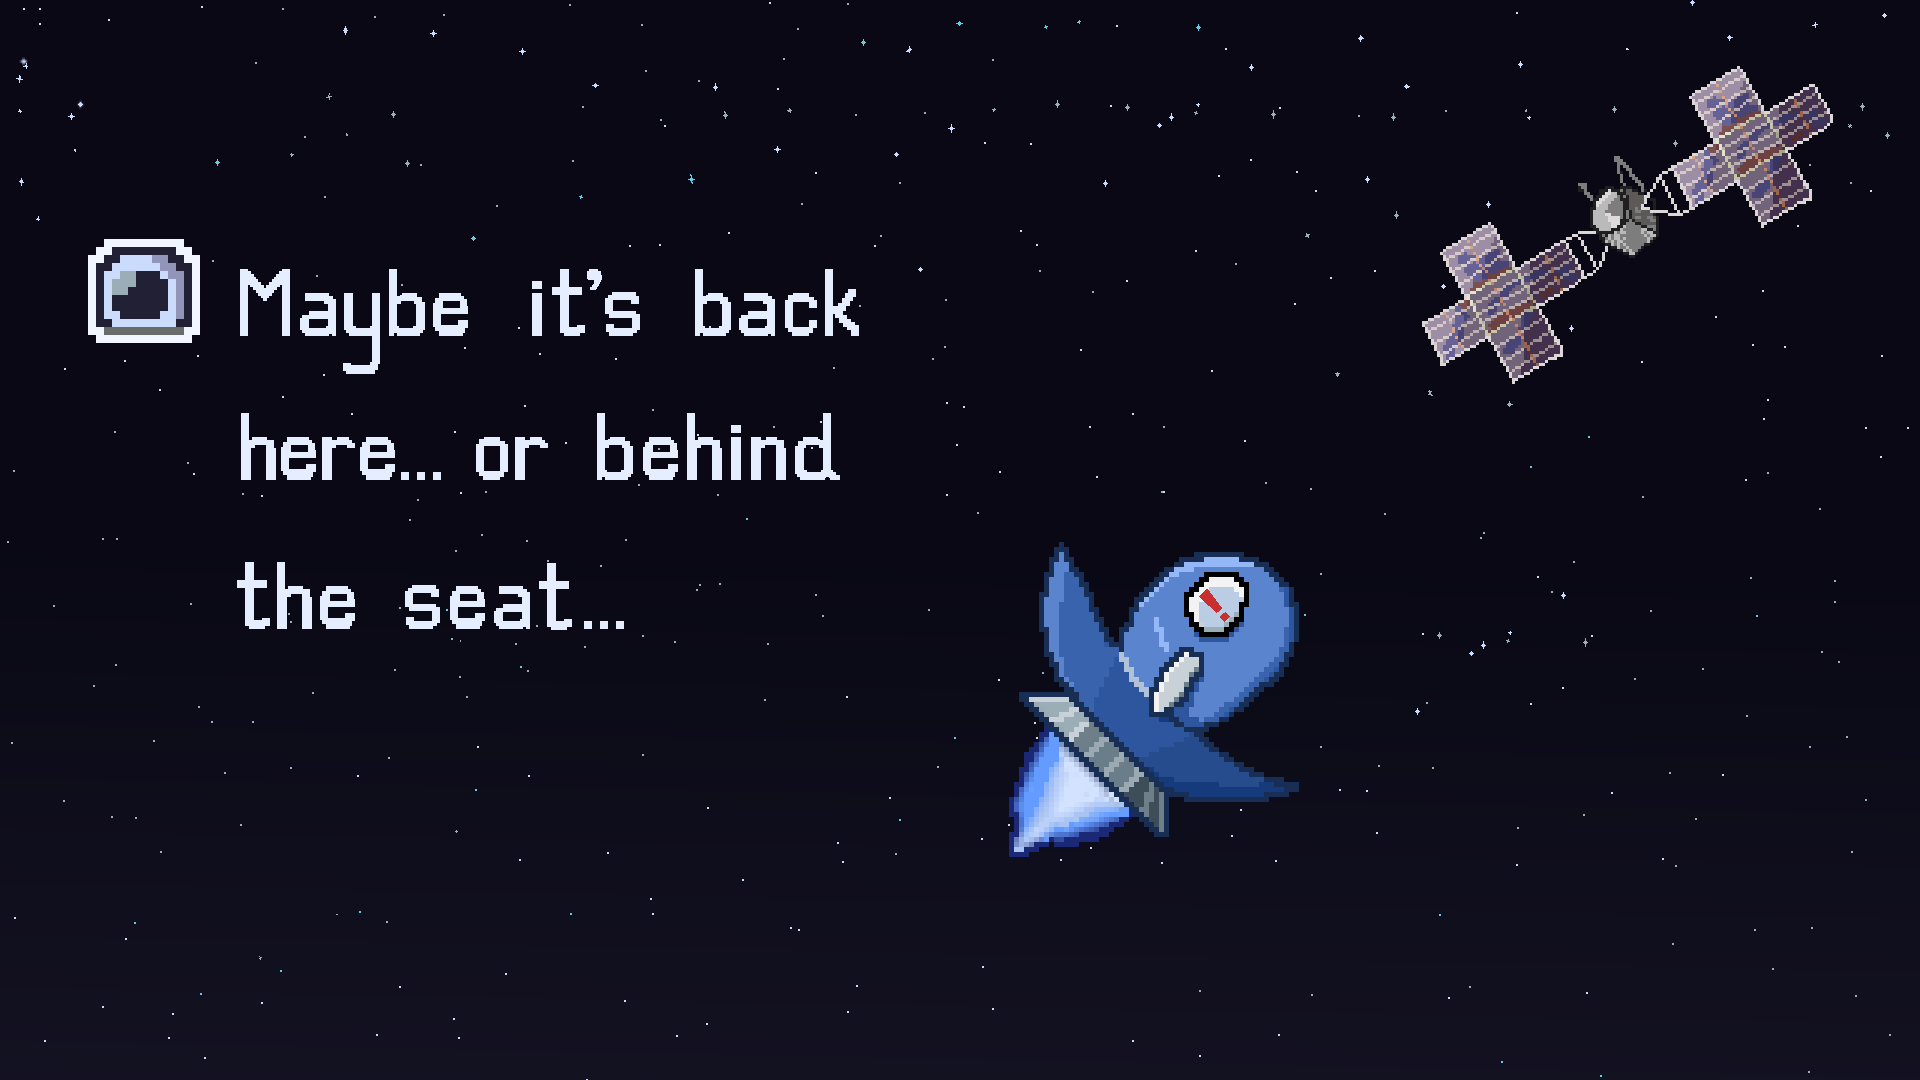
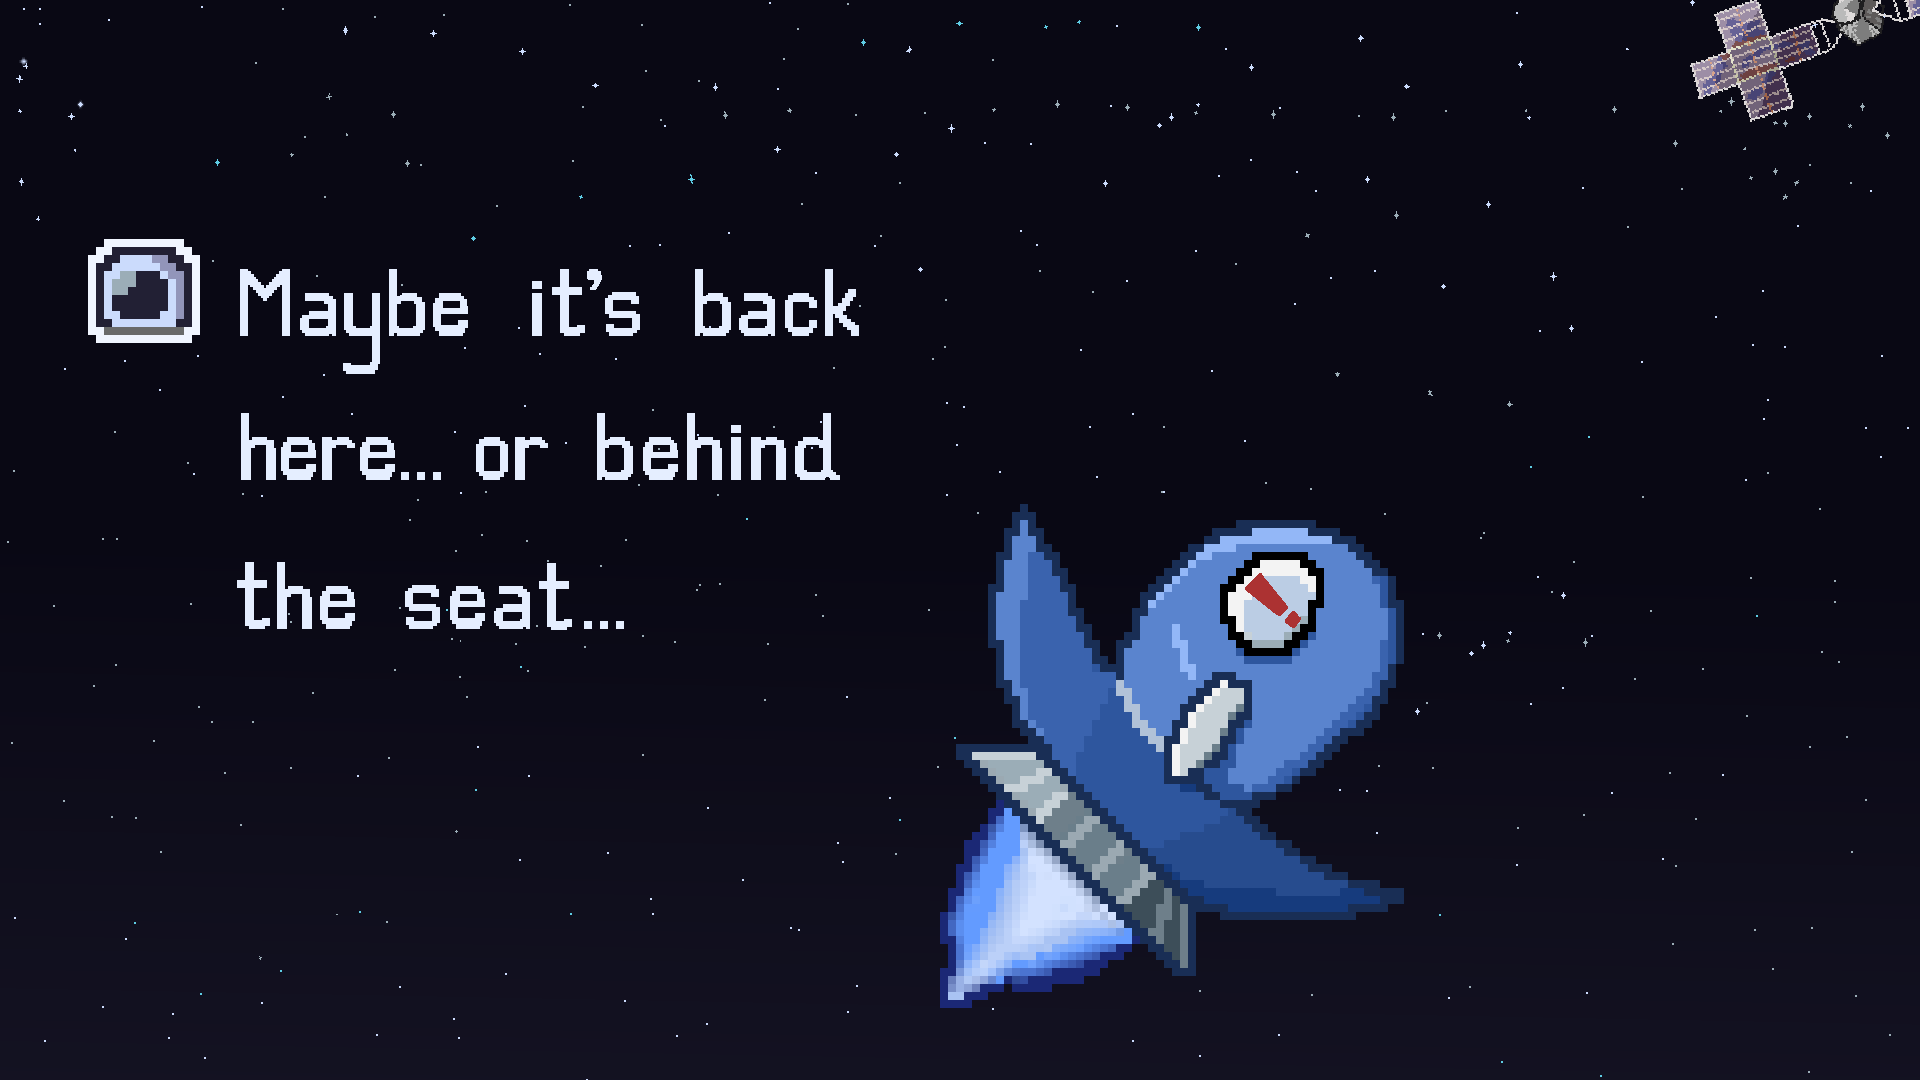
updated intro 3, 4, & added 5. updated script to accommodate 6 images

Changed region(s): [[0.4688, 0.4583, 0.75, 0.9472], [0.7188, 0.0, 1.0, 0.3667]]

diff --git a/Psyche/Assets/Scripts/UI/IntroController.cs b/Psyche/Assets/Scripts/UI/IntroController.cs
@@ -6,7 +6,7 @@ using UnityEngine;
 /// Author: jmolive8
 public class IntroController : MonoBehaviour
 {
-    public GameObject intro1, intro2, intro3, intro4, intro5;
+    public GameObject intro1, intro2, intro3, intro4, intro5, intro6;
 
     int curScreen = 1;
 
@@ -42,7 +42,13 @@ public class IntroController : MonoBehaviour
                     intro4.SetActive(false);
                     intro5.SetActive(true);
                     break;
-                    
+
+                case 5:
+                    curScreen++;
+                    intro5.SetActive(false);
+                    intro6.SetActive(true);
+                    break;
+
                 default:
                     // Set the value this way so if any changes are made they are accounted for
                     string scene = GameController.Instance.gameStateManager.MatchScene(GameStateManager.Scene.Landing_Scene);
